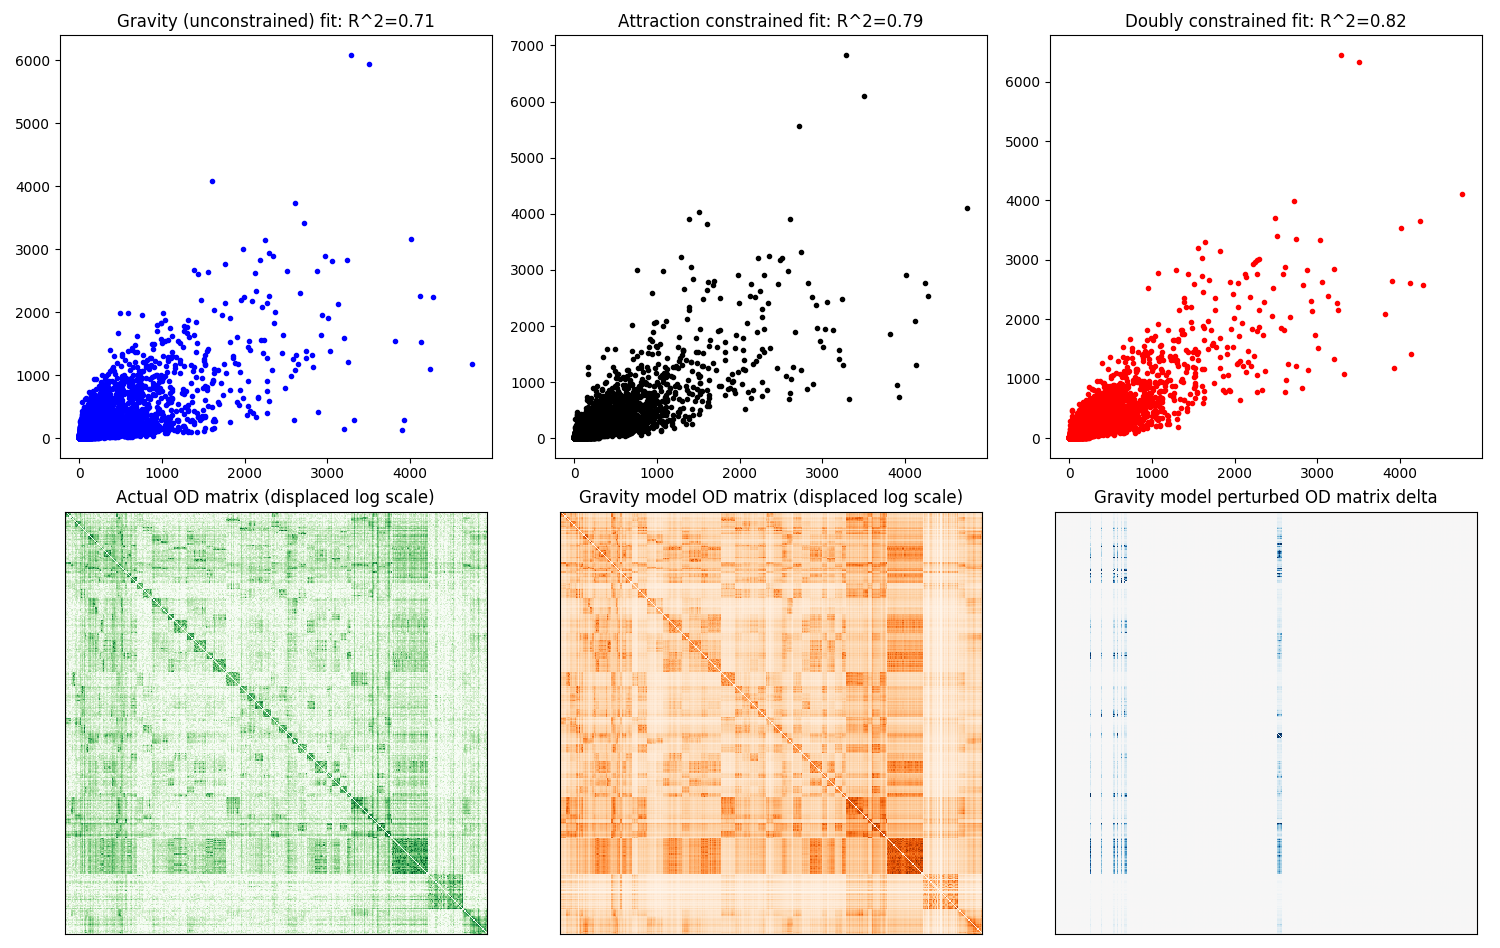
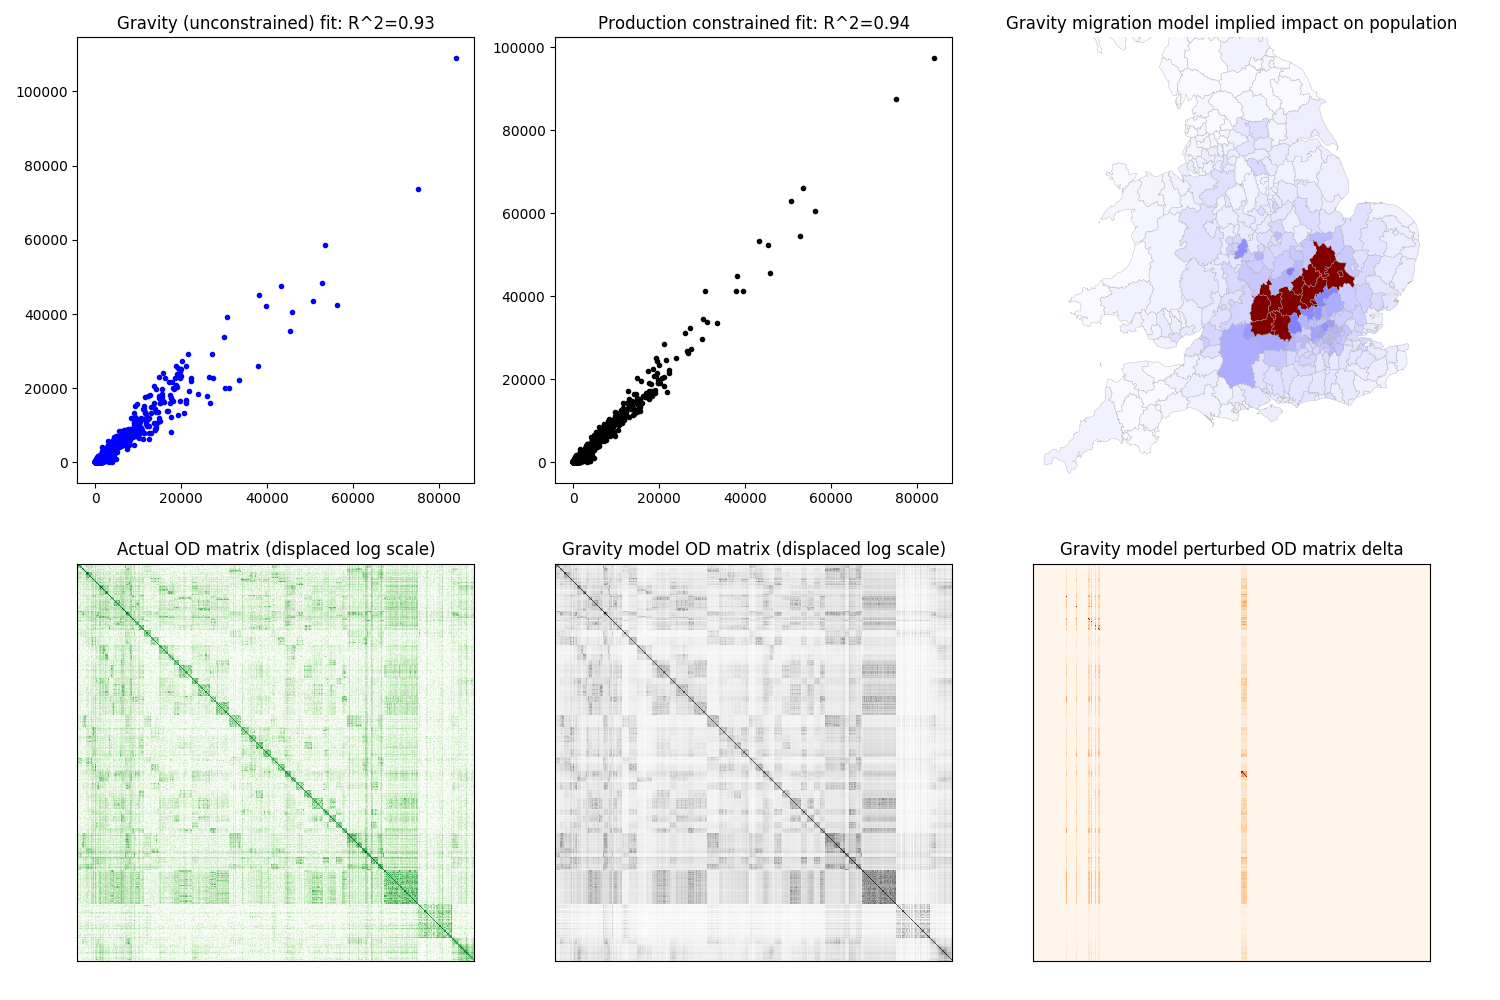
finally visualising something useful

diff --git a/scripts/SIM.py b/scripts/SIM.py
@@ -30,8 +30,6 @@ arclads = ["E07000181", "E07000180", "E07000177", "E07000179", "E07000004", "E06
 
 def main(params):
 
-  do_graphs = True
-
   coverage = { "EW": ukpoputils.EW, "GB": ukpoputils.GB, "UK": ukpoputils.UK}.get(params["coverage"]) 
   if not coverage:
     raise RuntimeError("invalid coverage: %s" % params["coverage"])
@@ -152,11 +150,20 @@ def main(params):
   #od_2011["CHANGED_MIGRATIONS"] = gravity(od_2011.PEOPLE.values, od_2011.CHANGED_HOUSEHOLDS.values)
 
   changed_odmatrix = od_matrix(od_2011, "CHANGED_MIGRATIONS", "O_GEOGRAPHY_CODE", "D_GEOGRAPHY_CODE")
+  delta_odmatrix = changed_odmatrix - model_odmatrix
 
-  delta_od = changed_odmatrix - model_odmatrix
+  delta = pd.DataFrame({"o_lad16cd": od_2011.O_GEOGRAPHY_CODE, 
+                        "d_lad16cd": od_2011.D_GEOGRAPHY_CODE, 
+                        "delta": -od_2011.CHANGED_MIGRATIONS + gravity.dataset.MODEL_MIGRATIONS})
+  # remove in-LAD migrations and sun
+  o_delta = delta.groupby("o_lad16cd").sum().reset_index().rename({"o_lad16cd": "lad16cd", "delta": "o_delta"}, axis=1)
+  d_delta = delta.groupby("d_lad16cd").sum().reset_index().rename({"d_lad16cd": "lad16cd", "delta": "d_delta"}, axis=1)
+  delta = o_delta.merge(d_delta)
+  delta["net_delta"] = delta.o_delta - delta.d_delta
+  print(delta)
 
   # visualise
-  if do_graphs:
+  if params["graphics"]:
     # fig.suptitle("UK LAD SIMs using population as emitter, households as attractor")
     v = visuals.Visual(2,3)
 
@@ -165,19 +172,23 @@ def main(params):
     #v.scatter((0,2), od_2011.MIGRATIONS, doubly.impl.yhat, "r.", "Doubly constrained fit: R^2=%.2f" % doubly.impl.pseudoR2)
 
     # TODO change in population...
-    v.polygons((0,2), gdf, [120000, 670000], [0, 550000], "lightgrey")
-    v.polygons((0,2), gdf[gdf.lad16cd.isin(arclads)], [120000, 670000], [0, 550000], "orange")
-    v.polygons((0,2), gdf[gdf.lad16cd.isin(ctrlads)], [120000, 670000], [0, 550000], "red")
+    # v.polygons((0,2), gdf, [120000, 670000], [0, 550000], "lightgrey")
+    # v.polygons((0,2), gdf[gdf.lad16cd.isin(arclads)], [120000, 670000], [0, 550000], "orange")
+    # v.polygons((0,2), gdf[gdf.lad16cd.isin(ctrlads)], [120000, 670000], [0, 550000], "red")
+    gdf = gdf.merge(delta)
+    limits = (-np.max(gdf.net_delta)/2, np.max(gdf.net_delta)/2)
+    v.polygons2((0,2), gdf, [120000, 670000], [0, 550000], gdf.net_delta, cmap="seismic", clim=limits, edgecolor="darkgrey", linewidth=0.25)
+    v.panel((0,2)).set_title("Gravity migration model implied impact on population")
 
     v.matrix((1,0), np.log(odmatrix+1), "Greens", title="Actual OD matrix (displaced log scale)")
     v.matrix((1,1), np.log(model_odmatrix+1), "Greys", title="Gravity model OD matrix (displaced log scale)")
     # we get away with log here as no values are -ve
-    v.matrix((1,2), np.log(1+delta_od), "Oranges", title="Gravity model perturbed OD matrix delta")
+    v.matrix((1,2), np.log(1+delta_odmatrix), "Oranges", title="Gravity model perturbed OD matrix delta")
     #absmax = max(np.max(delta_od),-np.min(delta_od))
     #v.matrix((1,2), delta_od, 'RdBu', title="Gravity model perturbed OD matrix delta", clim=(-absmax/50,absmax/50))
 
     v.show()
-    #v.to_png("doc/img/sim_basic.png")
+    v.to_png("doc/img/sim_basic.png")
 
 if __name__ == "__main__":
   

diff --git a/simim/visuals.py b/simim/visuals.py
@@ -31,7 +31,7 @@ class Visual:
     ax.xaxis.set_visible(False)
     ax.yaxis.set_visible(False)
 
-  def polygons(self, panel, gdf, xlim, ylim, fill_colour="darkgrey", edge_colour="lightgrey"):
+  def polygons(self, panel, gdf, xlim, ylim, **kwargs):
     #ax = self.axes[panel]
     ax = self.panel(panel)
     ax.axis("off")
@@ -40,7 +40,18 @@ class Visual:
     if ylim:
       ax.set_ylim(ylim)
 
-    plot_polygon_collection(ax, gdf['geometry'], edgecolor=edge_colour, facecolor=fill_colour, linewidth=0.25)
+    plot_polygon_collection(ax, gdf['geometry'], linewidth=0.25, **kwargs)
+
+  def polygons2(self, panel, gdf, xlim, ylim, values, **kwargs):
+    #ax = self.axes[panel]
+    ax = self.panel(panel)
+    ax.axis("off")
+    if xlim:
+      ax.set_xlim(xlim)
+    if ylim:
+      ax.set_ylim(ylim)
+
+    plot_polygon_collection(ax, gdf['geometry'], values=values, **kwargs)
 
   def show(self):
     plt.tight_layout()

diff --git a/README.md b/README.md
@@ -6,15 +6,15 @@
 ### Example
 
 ![Example fits](doc/img/sim_basic.png)
-_Figure 1. Example of gravity (unconstrained), attraction-constrained and doubly-constrained fits to 2011 census OD, population and household count data by LAD.  The axes in the scatterplots are number of migrations (x actual, y model). The OD matrix delta here is the difference in the model computed OD matrix given 20000 new household spaces in each of 13 local authorities in the CaMKOx corridor._
+_Figure 1. Illustrative example of gravity (total constrained), and production-constrained fits to 2011 census OD, population and household count data by LAD.  The axes in the scatterplots are number of migrations (x actual, y model). The map shows where the changed migration reduces the population (blue) and increases it (red). The OD matrix delta here is the difference in the model computed OD matrix given 20000 new household spaces in each of 13 local authorities in the CaMKOx corridor._
 
-The above models fit poorly because they use only population (as the emitter) and household count (as the attractor) and the cost function is based on Euclidean distance between LAD centroids. 
+The above models are fairly crude because they use only population (as the emitter) and household count (as the attractor) and the cost function is based on Euclidean distance between LAD centroids (with a nonzero minimum cost for inter-LAD migration). 
 
-This package aims to address these shortcomings by developing a more sophisticated model or models with multiple, configurable factors influencing production and attraction.
+This package aims to build on this simple model by developing a more sophisticated model or models with multiple, configurable factors influencing production and attraction.
 
 Once a model has been established with a good fit to the data, the model can then be used to examine the (national) impact on migration of significant changes to infrastructure. As in the example illustrated above, changing the attractiveness parameters at a particular location or locations will result in the model producing a modified OD matrix. This data can then be used to create custom population projection variants at a subnational scale. These variant projections can then be integrated into the [ukpopulation](https://github.com/nismod/ukpopulation) package.
 
-Note that although all the base models are constrained to the total number of migrations, applying changes to the emissiveness or attractiveness values will not in general conserve the total. Thus the migrations can be increased or decreased in this methodology.
+Note that although all the base models are constrained to the total number of migrations, applying changes to the emissiveness or attractiveness values will not in general conserve the total. Thus the migrations can be increased or decreased in this methodology. Additionally, attraction- or doubly-constrained models are not suitable here as they do not allow for changes to attractiveness once the model has been calibrated.
 
 The primary case study for this work will be the proposed east-west arc [[1]](#references) (a.k.a. Cambridge-Milton Keynes-Oxford corridor).
 
